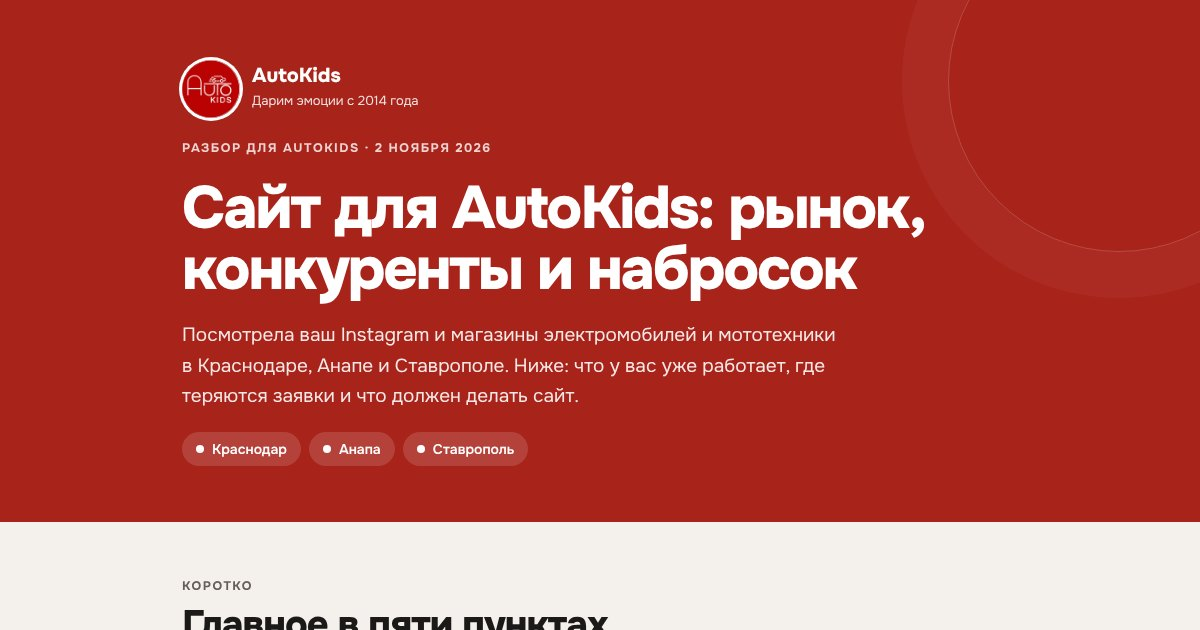
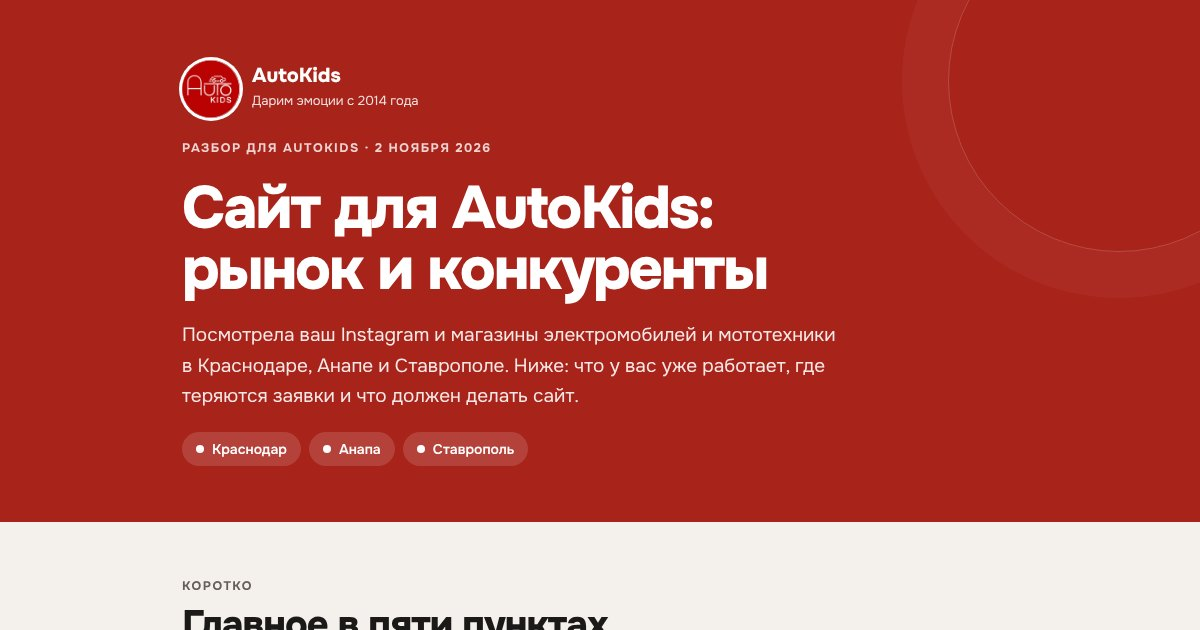
AutoKids: разбор без блока наброска; правило про ссылку только на разбор
Claude-Session: https://claude.ai/code/session_01MqcZMHEqFiRawhagcxDGFR

Changed region(s): [[0.1542, 0.3016, 0.7708, 0.4825]]

diff --git a/avtokids/analiz.html b/avtokids/analiz.html
@@ -5,7 +5,7 @@
 <meta name="viewport" content="width=device-width,initial-scale=1,viewport-fit=cover">
 <meta name="description" content="Разбор для AutoKids: сильные стороны, где теряются заявки, конкуренты в Краснодаре, Анапе и Ставрополе, задачи сайта и вопросы">
 <meta property="og:type" content="website">
-<meta property="og:title" content="Сайт для AutoKids: рынок, конкуренты и набросок">
+<meta property="og:title" content="Сайт для AutoKids: рынок и конкуренты">
 <meta property="og:description" content="Сильные стороны, где теряются заявки, конкуренты в трёх городах и что должен делать сайт">
 <meta property="og:image" content="https://mmaemi77-ctrl.github.io/avtokids/og-analiz.jpg">
 <meta property="og:image:width" content="1200">
@@ -119,16 +119,6 @@ h3{font-size:17px;font-weight:700;line-height:1.3}
 .b.tg b{display:block;font-size:12.5px;color:#2A7FB8}
 .chat .foot{font-size:13px;color:var(--muted);margin-top:6px}
 
-.draft{background:#A8231A;color:#FFFFFF;border-radius:26px;padding:clamp(22px,3.4vw,34px);display:grid;grid-template-columns:minmax(0,1fr) minmax(0,1.1fr);gap:clamp(18px,3vw,34px)}
-.draft .eyebrow{color:rgb(255 255 255 / .8)}
-.draft h2{color:#FFFFFF;margin-bottom:0}
-.draft p{opacity:.9;margin-top:12px}
-.draft ol{margin:0;padding:0;list-style:none;display:grid;gap:7px;counter-reset:d}
-.draft li{display:grid;grid-template-columns:28px minmax(0,1fr);column-gap:8px;align-items:baseline;font-size:15px;font-weight:600}
-.draft li::before{counter-increment:d;content:counter(d,decimal-leading-zero);font-weight:800;font-size:14px;opacity:.7}
-.draft li span{grid-column:2;font-size:13.5px;font-weight:400;opacity:.8}
-.draft .btn{background:#FFFFFF;color:#A8231A;margin-top:20px}
-@media (max-width:760px){.draft{grid-template-columns:1fr}}
 
 .ideas{display:grid;grid-template-columns:repeat(2,minmax(0,1fr));gap:12px}
 @media (max-width:680px){.ideas{grid-template-columns:1fr}}
@@ -155,7 +145,7 @@ footer b{font-weight:800;letter-spacing:.06em}
   <div class="wrap">
     <div class="brand"><img src="img/logo.png" alt="" width="58" height="58"><span><b>AutoKids</b><small>Дарим эмоции с&nbsp;2014 года</small></span></div>
     <div class="eyebrow">Разбор для AutoKids · 2&nbsp;ноября 2026</div>
-    <h1>Сайт для AutoKids: рынок, конкуренты и&nbsp;набросок</h1>
+    <h1>Сайт для AutoKids: рынок и&nbsp;конкуренты</h1>
     <p>Посмотрела ваш Instagram и&nbsp;магазины электромобилей и&nbsp;мототехники в&nbsp;Краснодаре, Анапе и&nbsp;Ставрополе. Ниже: что у&nbsp;вас уже работает, где теряются заявки и&nbsp;что должен делать сайт.</p>
     <div class="cities"><span>Краснодар</span><span>Анапа</span><span>Ставрополь</span></div>
   </div>
@@ -316,32 +306,6 @@ footer b{font-weight:800;letter-spacing:.06em}
 • Ирина, +7&nbsp;918&nbsp;…</div>
         <p class="foot">Одна заявка. Продавцу остаётся подтвердить бронь.</p>
       </div>
-    </div>
-  </section>
-
-  <section>
-    <div class="draft">
-      <div>
-        <div class="eyebrow">Набросок</div>
-        <h2 style="margin-top:8px">Что уже есть в&nbsp;наброске</h2>
-        <p>Главный экран можно потрогать: переключите город, полистайте модели и&nbsp;попробуйте забронировать. Ниже на&nbsp;той&nbsp;же странице все 13 блоков сайта.</p>
-        <a class="btn" href="index.html">Открыть главный экран →</a>
-      </div>
-      <ol>
-        <li>Главный экран<span>свой город, наличие и&nbsp;бронь</span></li>
-        <li>Каталог по&nbsp;разделам<span>от&nbsp;электромобилей до&nbsp;велосипедов</span></li>
-        <li>Карточка модели<span>характеристики без «ещё»</span></li>
-        <li>Бронь в&nbsp;своём магазине<span>готовая заявка в&nbsp;Telegram</span></li>
-        <li>Подарок к&nbsp;Новому году<span>подборки по&nbsp;возрасту</span></li>
-        <li>Скутеры, эндуро, квадроциклы<span>отдельный вход для&nbsp;взрослых</span></li>
-        <li>Рассрочка<span>платёж в&nbsp;месяц сразу</span></li>
-        <li>Доставка по&nbsp;России</li>
-        <li>Сервисный центр</li>
-        <li>Розыгрыш</li>
-        <li>Отзывы</li>
-        <li>Вопросы и&nbsp;ответы</li>
-        <li>Три магазина и&nbsp;контакты</li>
-      </ol>
     </div>
   </section>
 

diff --git a/CLAUDE.md b/CLAUDE.md
@@ -4,3 +4,4 @@
 - Разбор и набросок для клиента публикуются в отдельном публичном репозитории, по одному на клиента (как adaya, vaycar95).
 - Перед созданием нового репозитория всегда спрашивать Анастасию, создавать ли его и как назвать.
 - В сообщении с наброском не звать на созвон, пока клиент не одобрил структуру.
+- В сообщении клиенту только одна ссылка: на разбор. Главный экран (телефон и ноутбук) и структуру сайта Анастасия отправляет картинками, поэтому в разборе нет блока «Что уже есть в наброске» и ссылки на главный экран. Картинки структуры делать в формате 4:5 (1080×1350), чтобы читались в директе.
